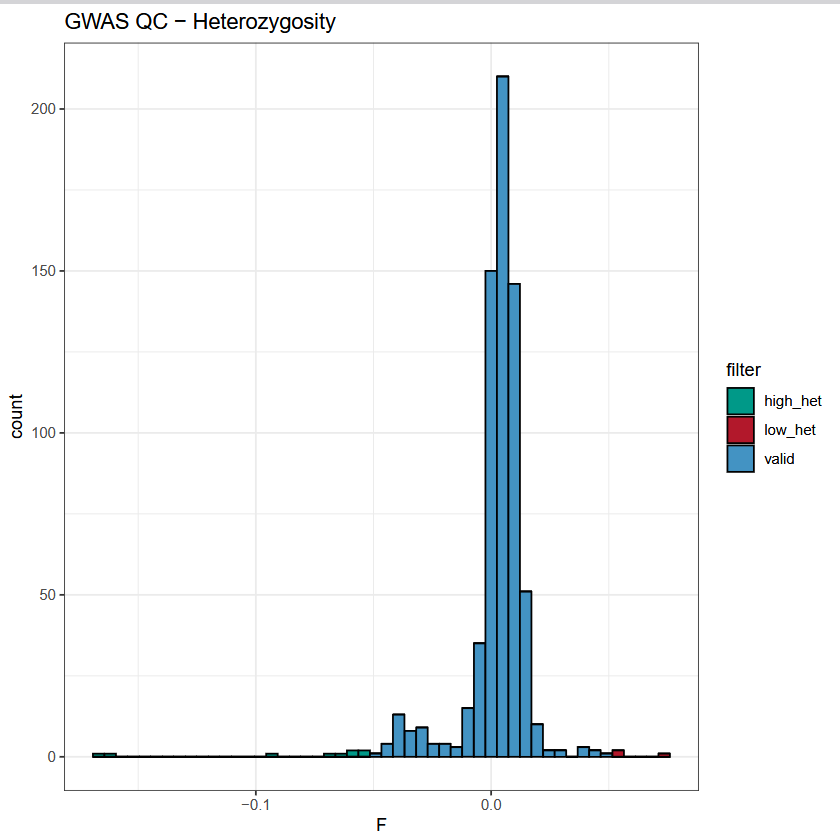
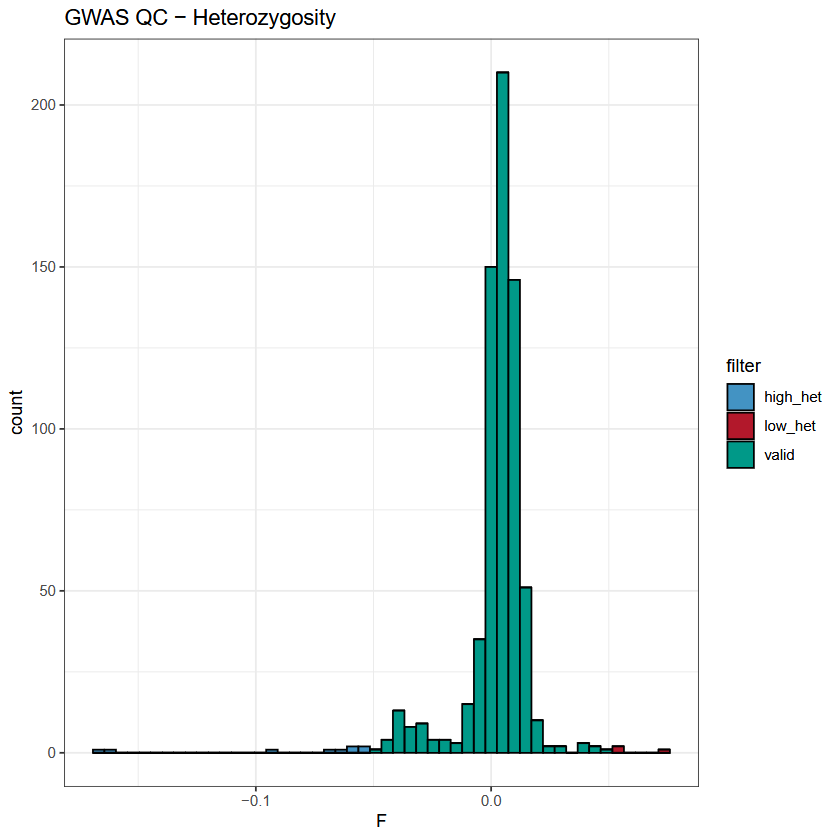
Color change in R plots
To have a consistent color scheme across plots

diff --git a/README.md b/README.md
@@ -98,7 +98,7 @@ This pipeline will output the following files:
 
 This plots shows the distribution of the F coefficient in the cohort. The F coefficient reports the observed and expected autosomal homozygous genotype counts for each sample. A low F value corresponds to a high heterozygosity and a high F value corresponds to a low heterozygosity.
 
-Usually samples outside 3 standard deviations for the cohort's mean are removed from the analysis, to avoid biases due to consanguinity (low het.) and library preparation (high het.). There are plotted in red and green respectively in the plot. In HCL-GWAS.nf you can choose to remove samples with 'low' heterozygosity, 'high' heterozygosity or 'both' (cf 'qc_hetfilter' in the config file).
+Usually samples outside 3 standard deviations for the cohort's mean are removed from the analysis, to avoid biases due to consanguinity (low het.) and library preparation (high het.). There are plotted in red and blue respectively in the plot. In HCL-GWAS.nf you can choose to remove samples with 'low' heterozygosity, 'high' heterozygosity or 'both' (cf 'qc_hetfilter' in the config file).
 
 *Note*: if you have admixed samples in your cohort, they will have a very low F coefficient and you should consider wether or not to remove them from the analysis, as the high heterozygosity is then expected and is not reflective of issues during library preparation.
 
